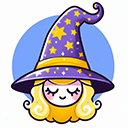
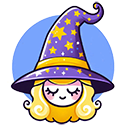
Popup css + html

diff --git a/popup.html b/popup.html
@@ -3,7 +3,7 @@
 <head>
     <meta charset="UTF-8">
     <meta name="viewport" content="width=device-width, initial-scale=1.0">
-    <link rel="shortcut icon" href="Logo/MagicBox.jpeg" />
+    <link rel="shortcut icon" href="Logo/MagicBox.png" />
     <link rel="stylesheet" href="popup.css">
     <style>
         @import url('https://fonts.googleapis.com/css2?family=Berkshire+Swash&display=swap');
@@ -17,7 +17,7 @@
 
 <div class="banner-container">
     
-  <label for="magicBox-title"><img id="MagicBox-logo" src="Logo/MagicBox.jpeg"></label>
+  <label for="magicBox-title"><img id="MagicBox-logo" src="Logo/MagicBox.png"></label>
   <h1 id="magicBox-title" name="magicBox-title">Magic Box</h1>
 
 </div>    
@@ -29,7 +29,7 @@
         <input class="switch-button" type="checkbox" id="remover" name="remover"></input>
     </div>
 
-    <div class="slide-options">
+    <div class="select-options">
      <label for="font" class="name-button">Choose your font</label>
      <select name="font" id="font">
          <option value="">Default</option>
@@ -41,7 +41,7 @@
 
     <div class="range-options">
         <label for="font-size" class="name-button">Font-Size</label>
-        <input class="range-button" type="range" min="1" max="100" value="1" id="font-size" name="font-size"></input>
+        <input class="range-button" type="range" min="1" max="100" value="50" step="any" id="font-size" name="font-size"></input>
     </div>
 
     <div class="range-options">
@@ -53,6 +53,11 @@
         <label for="letter-space" class="name-button">Letter-Spacing</label>
         <input class="range-button" type="range" min="1" max="100" value="1" id="letter-space" name="letter-space"></input>
     </div>
+    
+    <div class="reset-options">
+        <button class="reset-button" id="reset">Reset</button>
+    </div>
+
     </div>
 
 </div>

diff --git a/popup.css b/popup.css
@@ -16,7 +16,7 @@ body {
   box-shadow: 3px 3px 10px rgba(0, 0, 0, 0.297);
   border-radius: 5%;
   width: 250px;
-  height: 380px;
+  height: 375px;
   padding: 10%;
 }
 
@@ -45,8 +45,8 @@ input[type="checkbox"] {
   -moz-appearance: none;
   appearance: none;
   position: relative;
-  height: 25px;
-  width: 50px;
+  height: 20px;
+  width: 45px;
   background-color: white;
   border-radius: 5rem;
   transition: background-color 0.2s;
@@ -59,8 +59,8 @@ input[type="checkbox"]::after {
   top: 50%;
   left: 30%;
   transform: translate(-50%, -50%);
-  height: 20px;
-  width: 20px;
+  height: 15px;
+  width: 15px;
   border-radius: 50%;
   background-color: black;
   transition: left 0.2s;
@@ -87,20 +87,15 @@ input[type="checkbox"]:checked::after {
   display: flex;
   justify-content: space-between;
   align-items: center;
-  margin-bottom: 2.5rem;
+  margin-bottom: 1rem;
 }
 
-.switch-button {
-
-}
-
-.slide-options {
+.select-options {
   /* border: 1px solid black; */
-  margin-bottom: 2.5rem;
-}
-
-.slide-button {
-
+  display: flex;
+  justify-content: space-between;
+  align-items: center;
+  margin-bottom: 1.5rem;
 }
 
 .range-options {
@@ -112,6 +107,27 @@ input[type="checkbox"]:checked::after {
   accent-color: black;
 }
 
-.range-button {
+.reset-options {
+  /* border: 1px solid black;  */
+  display: flex;
+  flex-direction:column;
+  align-items:center
+}
 
+.reset-button {
+  margin-top: 1rem;
+  height: 25px;
+  width: 60px;
+  border-radius: 5rem;
+  background: white;
+  color: black;
+  border: transparent;
+  box-shadow: 0 0 3px rgba(0, 0, 0, 0.386);
+  transition-duration: 0.1s;
+}
+
+.reset-button:hover {
+  cursor: pointer;
+  background-color: rgb(150, 181, 254);
+  color: white;
 }
